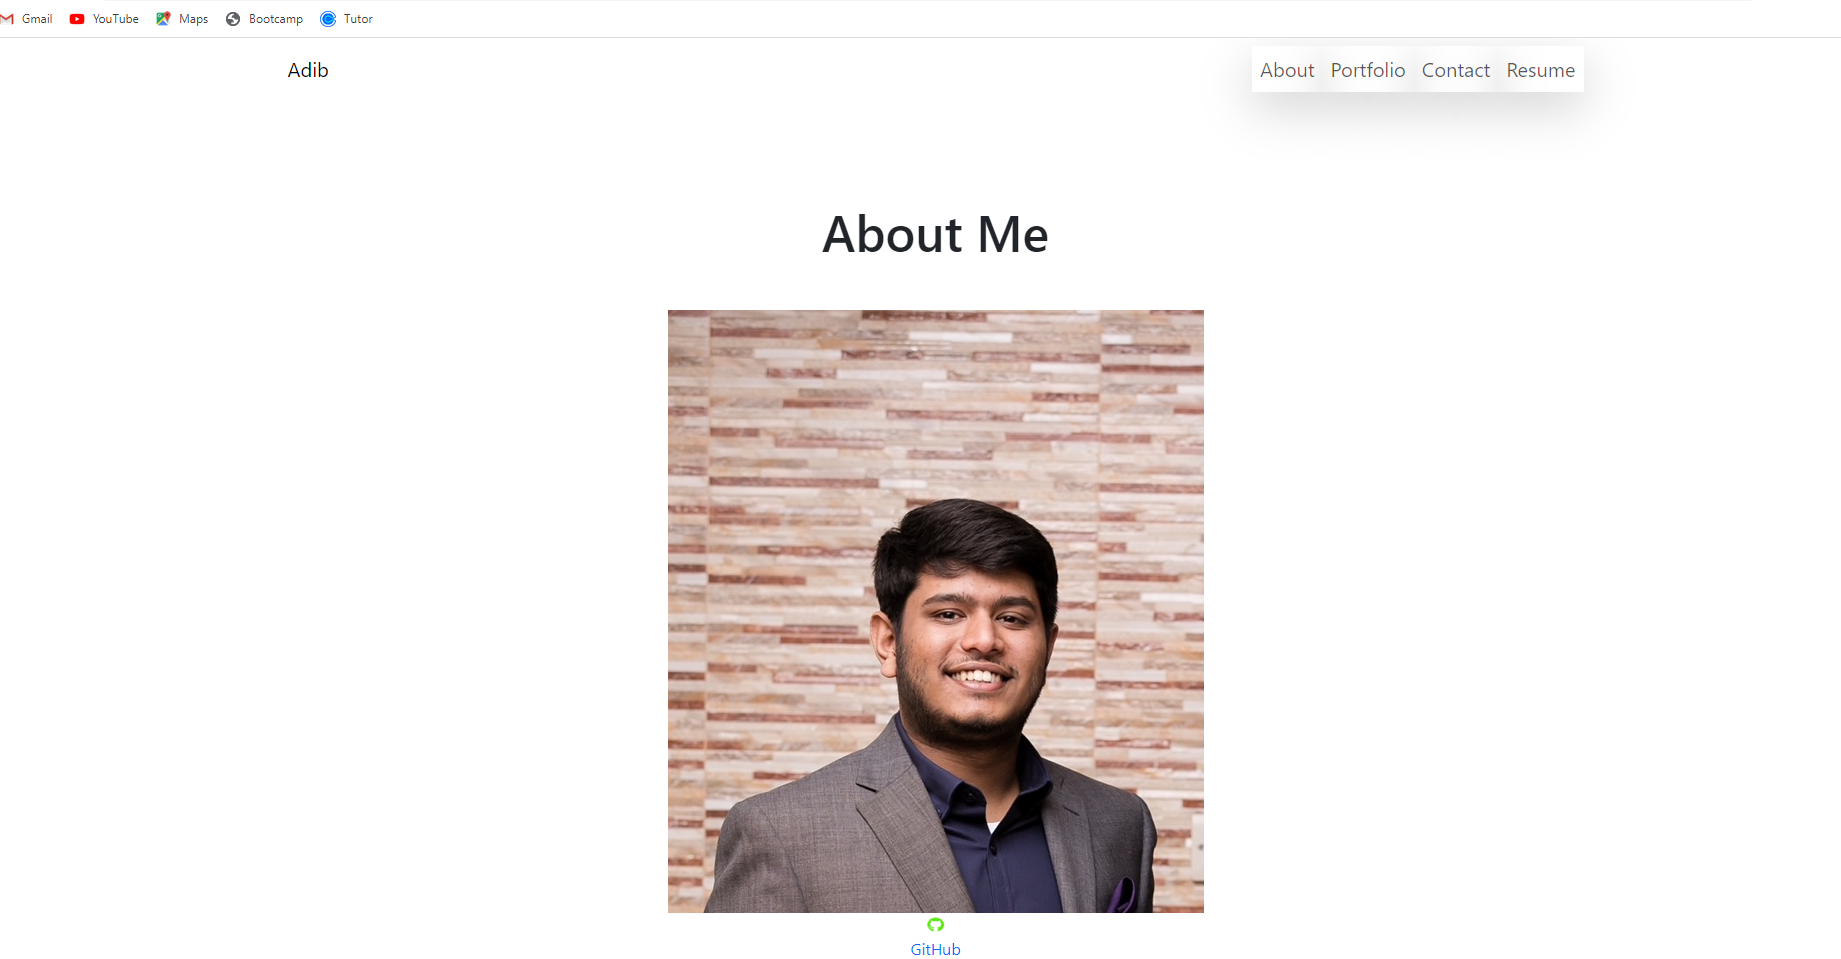
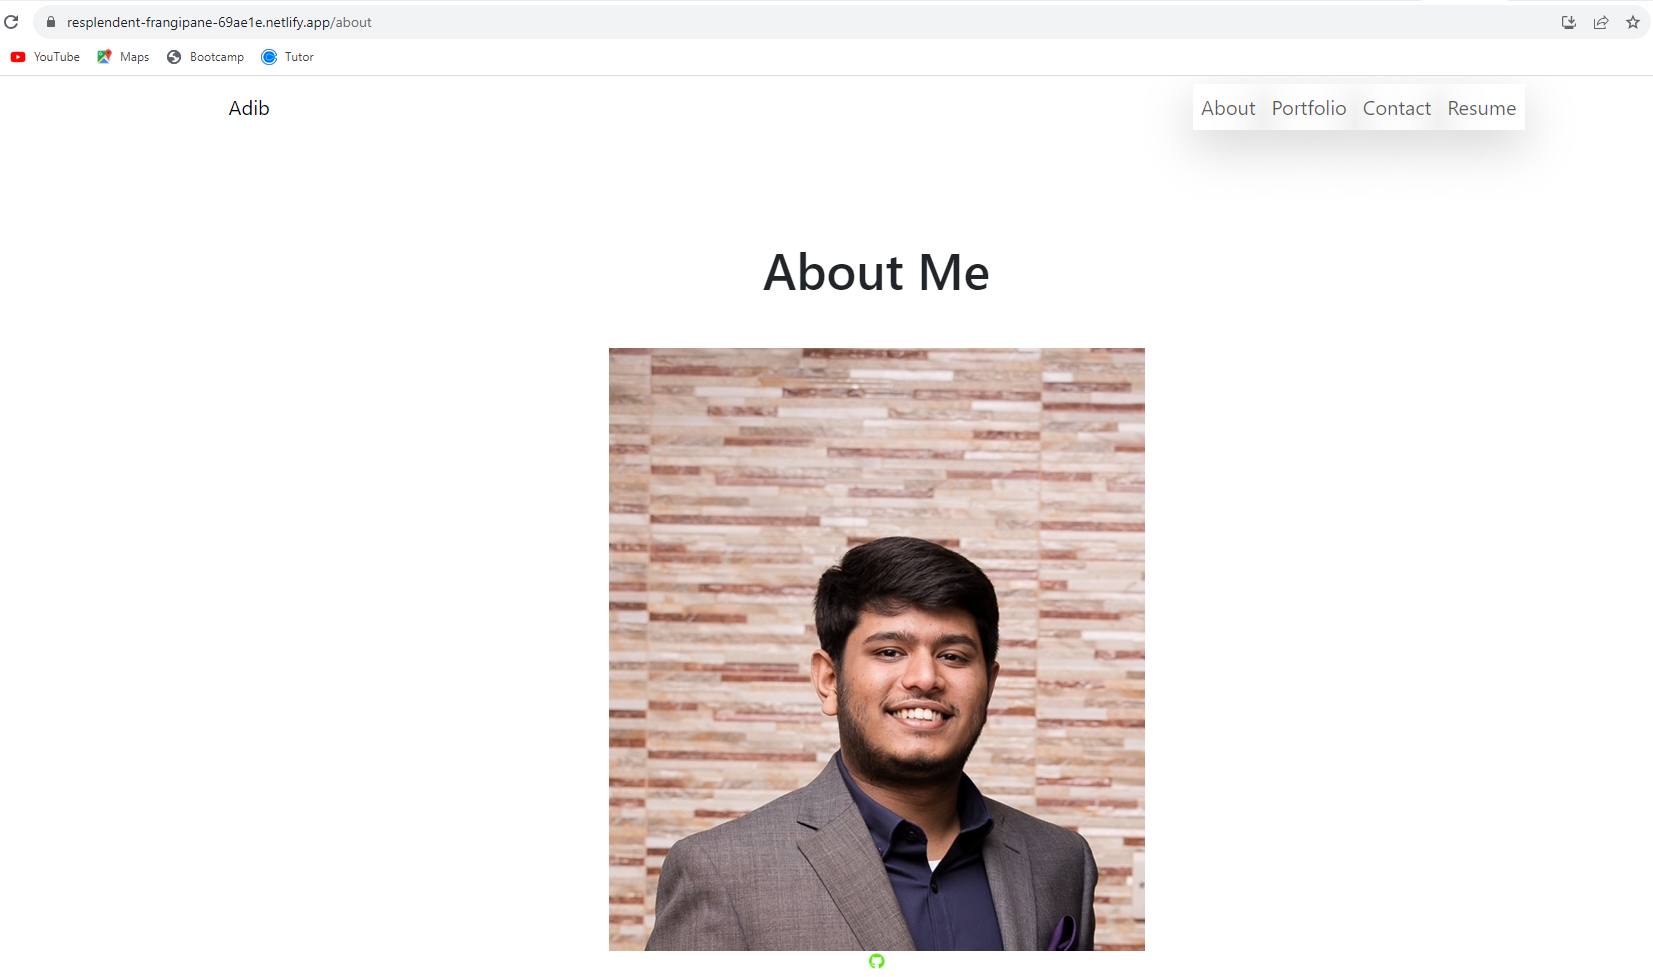
Updated Readme with Screenshot and Deployed Link

diff --git a/README.md b/README.md
@@ -2,7 +2,6 @@
 ![GitHub license](https://img.shields.io/badge/license-MIT-red)
 ## Description
 This task is to create a portfolio, using React to help this project set apart from other developers whose portfolios don’t use the latest technologies.
-
 ## Table of Contents
 - [Installation](#installation)
 - [Usage](#usage)
@@ -11,6 +10,8 @@ This task is to create a portfolio, using React to help this project set apart f
 - [Tests](#tests)
 - [Questions](#questions)
 
+## Screenshot
+![Deployment](./public/images/Screenshot%202023-10-14%20143358.png)
 ## Installation
 adib
 
@@ -26,6 +27,9 @@ adib
 
 ## Tests
 adib
+
+## Deployment Link
+(https://resplendent-frangipane-69ae1e.netlify.app/)
 
 ## Questions
 For additional questions, you can reach me through:
